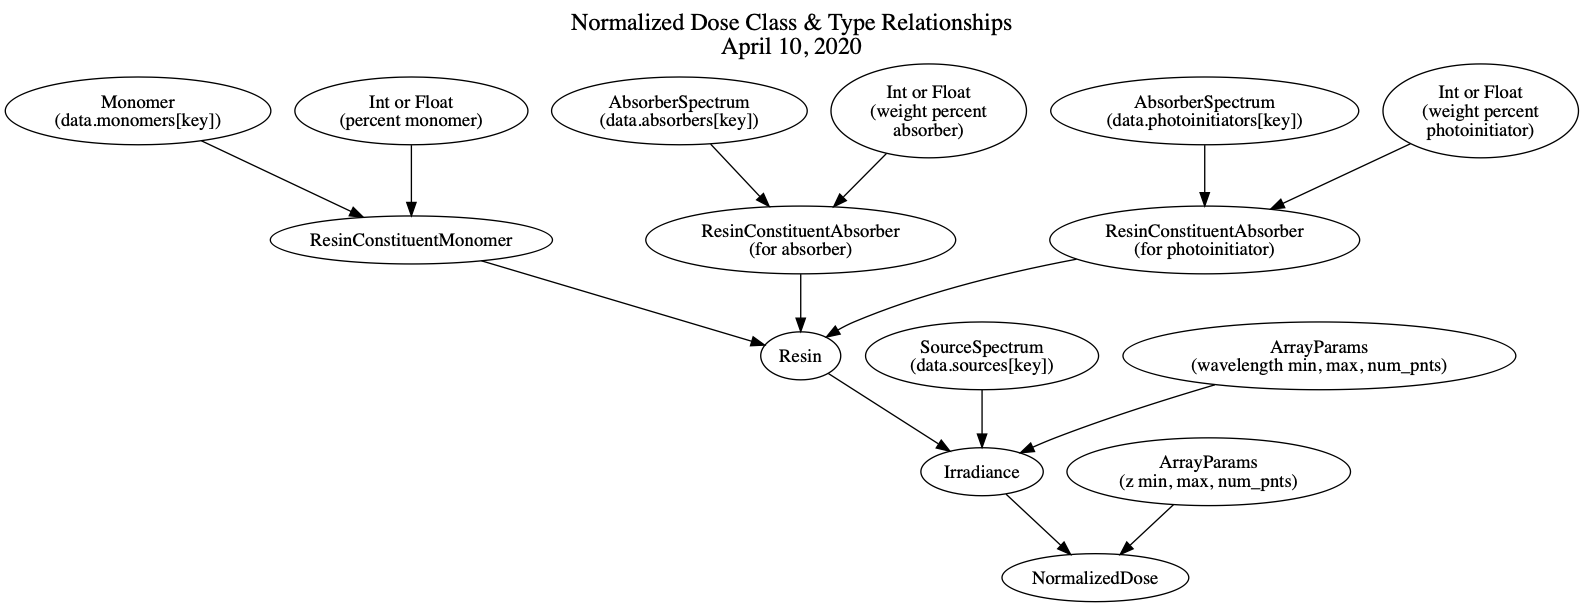
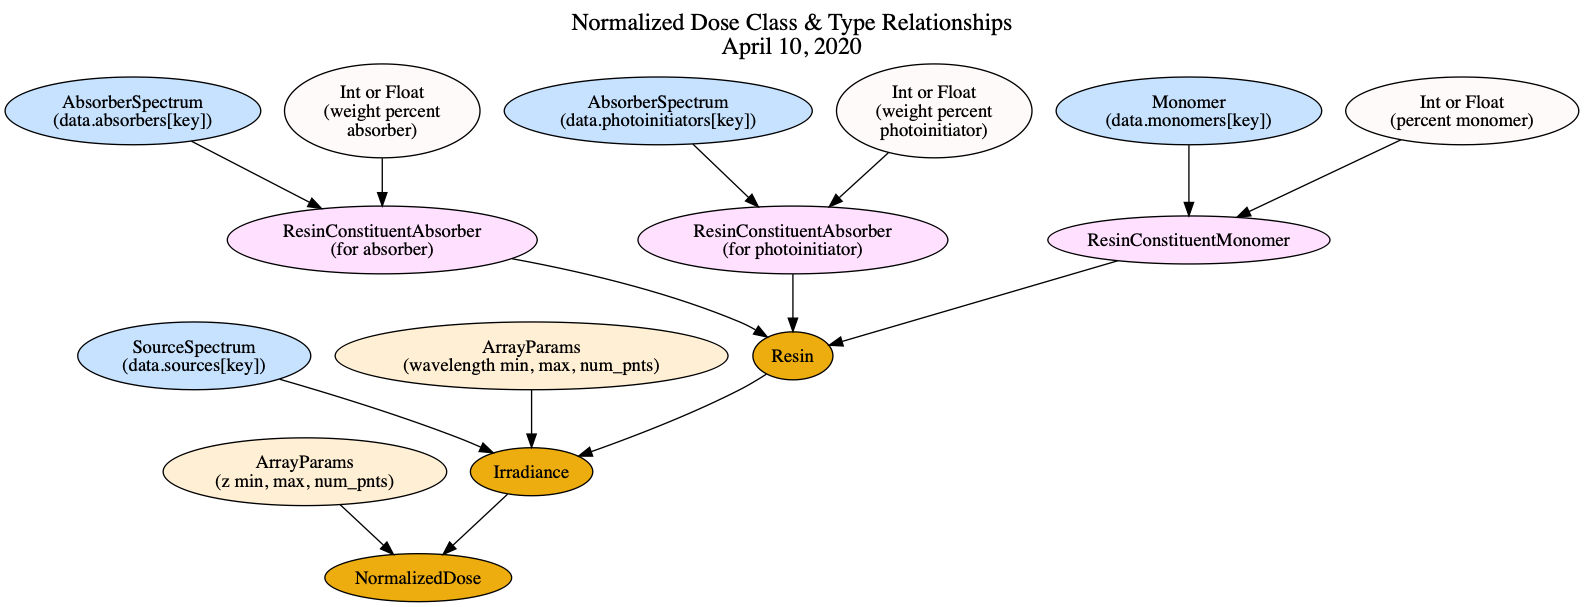
Play with colors of nodes in GraphViz diagram

diff --git a/tests/test_normalizeddose.py b/tests/test_normalizeddose.py
@@ -34,6 +34,7 @@ def test_normalizeddose():
         irradiance=irradiance, z_array_params=ArrayParams(0, 30, 5)
     )
 
+    # See my notes about the design of an ideal source and absorber for why the following is true
     assert np.allclose(norm_dose.normalized_dose, np.exp(-norm_dose.z_um / 10))
 
     with tempfile.TemporaryDirectory() as d:

diff --git a/notes-3Dprinter_spectra_and_tools.md b/notes-3Dprinter_spectra_and_tools.md
@@ -59,6 +59,7 @@
 - Create GraphViz diagram of relationships between classes
 - Learn how to use standard library package tempfile
 - Put `NormalizedDose` in python module and create tests
+- Play with colors of nodes in GraphViz diagram
 
 ![](notebooks/200410_class_relationships.png)
 
